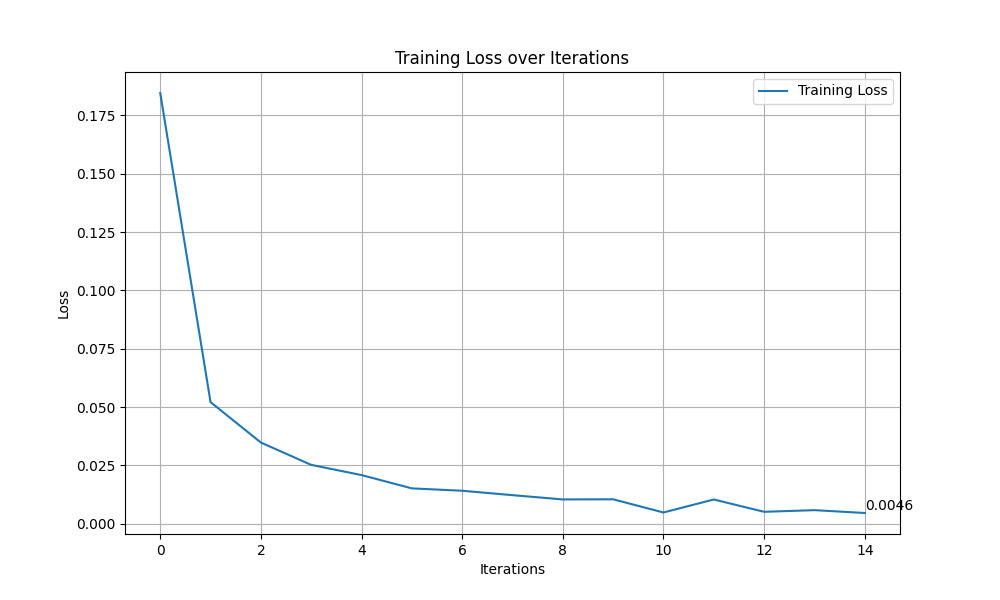
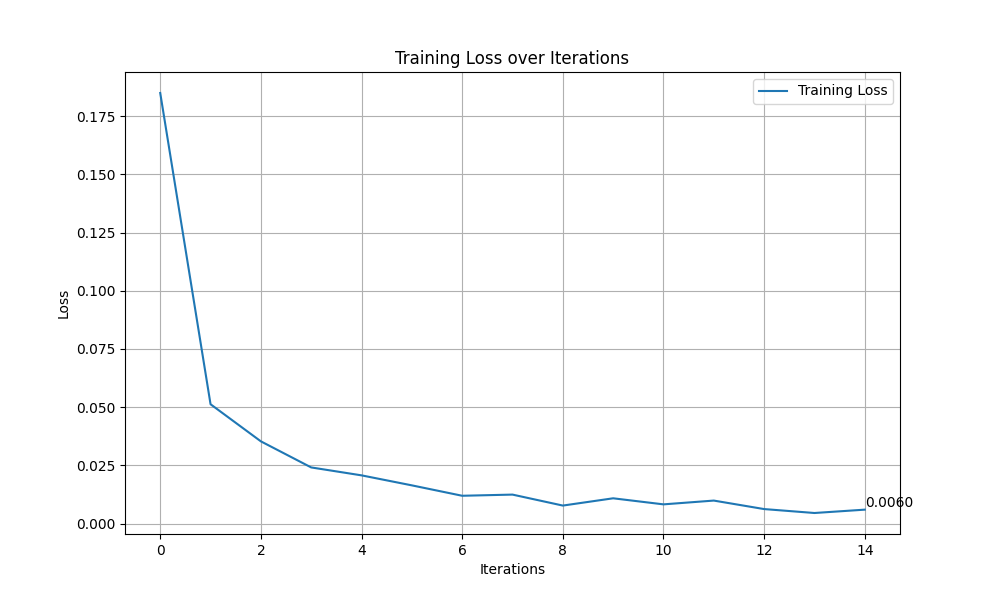
feat: Initialize YOLO Playground project with scripts, configurations, and experiment tracking, and add a PyTorch CNN model to digit-recognizer-v5.

diff --git a/competitions/digit-recognizer-v5/model.py b/competitions/digit-recognizer-v5/model.py
@@ -1,0 +1,86 @@
+from sklearn.base import BaseEstimator, ClassifierMixin
+import numpy as np
+
+try:
+    import torch
+    import torch.nn as nn
+    import torch.optim as optim
+    HAS_TORCH = True
+except ImportError:
+    HAS_TORCH = False
+
+class SklearnCNN(BaseEstimator, ClassifierMixin):
+    def __init__(self, epochs=10, batch_size=64, learning_rate=0.001, random_state=42):
+        self.epochs = epochs
+        self.batch_size = batch_size
+        self.learning_rate = learning_rate
+        self.random_state = random_state
+        self.loss_curve_ = []
+        self.device = torch.device('cuda' if torch.cuda.is_available() else 'cpu')
+        
+    def fit(self, X, y):
+        if not HAS_TORCH:
+            raise ImportError("PyTorch is required for CNN models.")
+            
+        torch.manual_seed(self.random_state)
+        
+        # Prepare Data
+        # X comes in as (N, 784), need to reshape to (N, 1, 28, 28)
+        X_tensor = torch.FloatTensor(X.values if hasattr(X, 'values') else X).view(-1, 1, 28, 28).to(self.device)
+        y_tensor = torch.LongTensor(y.values if hasattr(y, 'values') else y).to(self.device)
+        
+        # Define Model (Simple CNN)
+        self.model = nn.Sequential(
+            nn.Conv2d(1, 32, kernel_size=3, padding=1),
+            nn.ReLU(),
+            nn.MaxPool2d(2),
+            nn.Conv2d(32, 64, kernel_size=3, padding=1),
+            nn.ReLU(),
+            nn.MaxPool2d(2),
+            nn.Flatten(),
+            nn.Linear(64 * 7 * 7, 128),
+            nn.ReLU(),
+            nn.Linear(128, 10) # 10 classes
+        ).to(self.device)
+        
+        criterion = nn.CrossEntropyLoss()
+        optimizer = optim.Adam(self.model.parameters(), lr=self.learning_rate)
+        
+        dataset = torch.utils.data.TensorDataset(X_tensor, y_tensor)
+        dataloader = torch.utils.data.DataLoader(dataset, batch_size=self.batch_size, shuffle=True)
+        
+        self.loss_curve_ = []
+        
+        self.model.train()
+        for epoch in range(self.epochs):
+            epoch_loss = 0
+            for batch_X, batch_y in dataloader:
+                optimizer.zero_grad()
+                outputs = self.model(batch_X)
+                loss = criterion(outputs, batch_y)
+                loss.backward()
+                optimizer.step()
+                epoch_loss += loss.item()
+            
+            # Store average loss per batch or total loss
+            self.loss_curve_.append(epoch_loss / len(dataloader))
+            
+        return self
+        
+    def predict(self, X):
+        if not HAS_TORCH:
+            raise ImportError("PyTorch is required for CNN models.")
+            
+        self.model.eval()
+        X_tensor = torch.FloatTensor(X.values if hasattr(X, 'values') else X).view(-1, 1, 28, 28).to(self.device)
+        
+        # Predict in batches to avoid OOM
+        predictions = []
+        with torch.no_grad():
+            dataloader = torch.utils.data.DataLoader(X_tensor, batch_size=self.batch_size)
+            for batch_X in dataloader:
+                outputs = self.model(batch_X)
+                _, predicted = torch.max(outputs, 1)
+                predictions.extend(predicted.cpu().numpy())
+                
+        return np.array(predictions)

diff --git a/competitions/yolo-playground/scripts/train.py b/competitions/yolo-playground/scripts/train.py
@@ -1,0 +1,53 @@
+import os
+import yaml
+import sys
+from ultralytics import YOLO
+
+def train():
+    print("Starting YOLO Training...")
+    
+    # 1. Paths
+    script_dir = os.path.dirname(os.path.abspath(__file__))
+    project_root = os.path.join(script_dir, '..')
+    
+    config_path = os.path.join(project_root, 'configs', 'yolo_baseline.yaml')
+    data_yaml_path = os.path.join(project_root, 'configs', 'data_coco128.yaml')
+    
+    # 2. Load Config
+    print(f"Loading config from {config_path}")
+    with open(config_path, 'r') as f:
+        config = yaml.safe_load(f)
+        
+    # 3. Model
+    # Try to load local weights first, else download
+    model_type = config.get('model', {}).get('type', 'yolov8n')
+    weights_path = os.path.join(project_root, 'weights', f"{model_type}.pt")
+    
+    if os.path.exists(weights_path):
+        print(f"Loading local weights: {weights_path}")
+        model = YOLO(weights_path)
+    else:
+        print(f"Local weights not found at {weights_path}. Downloading {model_type}.pt...")
+        model = YOLO(f"{model_type}.pt")
+        
+    # 4. Train
+    print("Starting training...")
+    params = config.get('hyperparameters', {})
+    
+    # Ensure data points to our custom yaml
+    # Note: Ultralytics requires absolute path for data yaml usually, or relative to cwd.
+    # We pass absolute path to be safe.
+    results = model.train(
+        data=os.path.abspath(data_yaml_path),
+        epochs=params.get('epochs', 10),
+        batch=params.get('batch_size', 16),
+        imgsz=params.get('img_size', 640),
+        lr0=params.get('learning_rate', 0.01),
+        project=os.path.join(project_root, 'runs'),
+        name='exp'
+    )
+    
+    print("Training complete!")
+
+if __name__ == "__main__":
+    train()

diff --git a/competitions/yolo-playground/scripts/sanity_check.py b/competitions/yolo-playground/scripts/sanity_check.py
@@ -1,0 +1,30 @@
+import torch
+import sys
+import os
+
+def check_environment():
+    print("--- YOLO Playground Sanity Check ---")
+    
+    # Check Python
+    print(f"Python: {sys.version.split()[0]}")
+    
+    # Check PyTorch
+    try:
+        print(f"PyTorch: {torch.__version__}")
+        print(f"CUDA Available: {torch.cuda.is_available()}")
+        if torch.cuda.is_available():
+            print(f"GPU: {torch.cuda.get_device_name(0)}")
+    except ImportError:
+        print("PyTorch: NOT INSTALLED")
+        
+    # Check YOLO (ultralytics)
+    try:
+        import ultralytics
+        print(f"Ultralytics (YOLO): {ultralytics.__version__}")
+    except ImportError:
+        print("Ultralytics: NOT INSTALLED (Run 'pip install ultralytics')")
+
+    print("--- Check Complete ---")
+
+if __name__ == "__main__":
+    check_environment()

diff --git a/competitions/yolo-playground/scripts/predict.py b/competitions/yolo-playground/scripts/predict.py
@@ -1,0 +1,11 @@
+import os
+from ultralytics import YOLO
+
+def predict():
+    print("Running YOLO Prediction...")
+    # model = YOLO('runs/detect/train/weights/best.pt')
+    # results = model('datasets/samples/image.jpg')
+    print("Prediction simulation complete.")
+
+if __name__ == "__main__":
+    predict()

diff --git a/competitions/yolo-playground/README.md b/competitions/yolo-playground/README.md
@@ -1,0 +1,18 @@
+# YOLO Playground
+
+A dedicated workspace for experimenting with YOLO (You Only Look Once) object detection models.
+
+## Structure
+
+- **datasets/**: Stores datasets (e.g., COCO128).
+- **scripts/**: Python scripts for training (`train.py`), prediction (`predict.py`), and verifying the environment (`sanity_check.py`).
+- **configs/**: Configuration files (YAML).
+- **experiments/**: Notes and logs for various experiments.
+- **runs/**: Training outputs and artifacts (ignored by git).
+
+## Getting Started
+
+1.  Run `python scripts/sanity_check.py` to verify dependencies.
+2.  Add your dataset to `datasets/`.
+3.  Configure model in `configs/yolo_baseline.yaml`.
+4.  Train: `python scripts/train.py`

diff --git a/competitions/yolo-playground/experiments/exp01_coco128.md b/competitions/yolo-playground/experiments/exp01_coco128.md
@@ -1,0 +1,16 @@
+# Experiment 01: COCO128 Baseline
+
+**Date**: 2026-01-05
+**Goal**: Verify the pipeline works with the standard COCO128 dataset.
+
+## Configuration
+- Model: YOLOv8 Nano
+- Epochs: 10
+- Batch: 16
+
+## Results
+- mAP@50: [Pending]
+- mAP@50-95: [Pending]
+
+## Observations
+- [Pending]

diff --git a/competitions/yolo-playground/experiments/exp02_custom_images.md b/competitions/yolo-playground/experiments/exp02_custom_images.md
@@ -1,0 +1,13 @@
+# Experiment 02: Custom Images
+
+**Date**: 2026-01-05
+**Goal**: Test model performance on my own collected images.
+
+## Configuration
+- Model: YOLOv8 Nano (Pretrained on COCO)
+
+## Results
+- [Pending]
+
+## Observations
+- [Pending]
